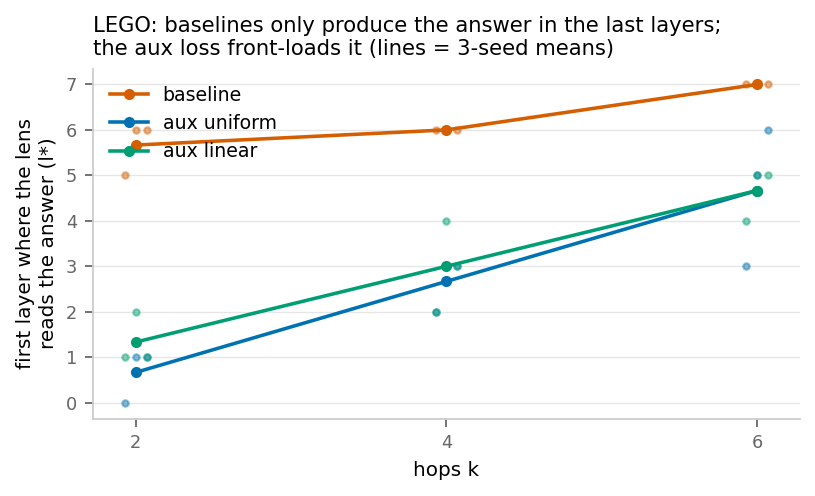
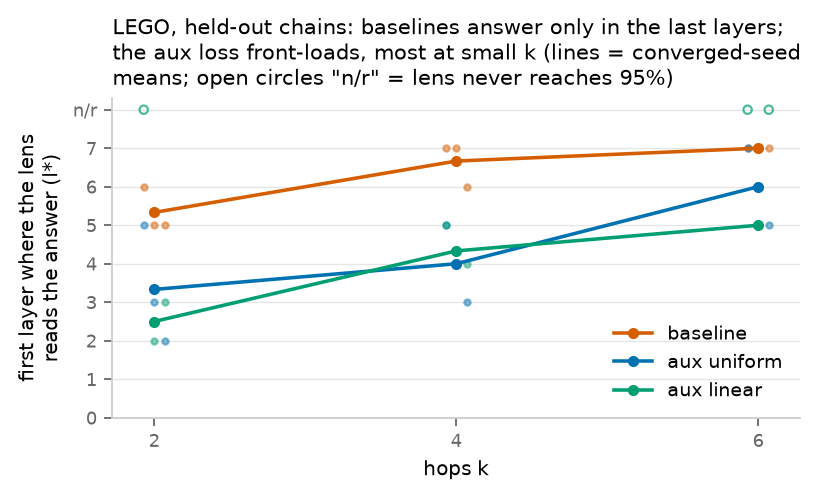
LEGO held-out restatement: RUNS repointed, figure regenerated, WRITEUP/RESULTS updated
compare_lens_aux.RUNS now points at the canonical splitku checkpoints
(enumerated data, disjoint split, k-uniform sampling). artifact_path
gains a data/artifacts/ local-mirror fallback for analyzing fresh runs
before HF upload. Held-out results: baselines were genuinely
generalizing (100% k>=2); aux has a real short-chain cost the leaky
eval hid (k=0 identity fails 3/3 uniform seeds); front-loading survives
but shrinks (uniform l*(2)=2-5 vs baseline 5-6; l*(6)=5-7 vs 7); the
all-positions variant substantially harms the task. coalescence.png now
averages converged seeds only and marks never-readable runs as n/r.

diff --git a/grok_lens/make_figures.py b/grok_lens/make_figures.py
@@ -261,28 +261,46 @@ def fig_coalescence(outdir: Path) -> None:
         print(f"  l*(k={ks}) {label}: {vals}")
 
     fig, ax = plt.subplots(figsize=(5.2, 3.2), dpi=160)
+    n_layers_max = 8
     for (label, seeds_vals), color in zip(
         data.items(), [VERM, BLUE, GREEN], strict=True
     ):
-        n_seeds = len(seeds_vals)
-        mean = [sum(v[i] for v in seeds_vals) / n_seeds for i in range(len(ks))]
+        # Mean over converged seeds only; non-converged (l* = n_layers,
+        # lens never >=0.95) would drag the line to a fake value.
+        mean = [
+            sum(vs) / len(vs)
+            if (vs := [v[i] for v in seeds_vals if v[i] < n_layers_max])
+            else float("nan")
+            for i in range(len(ks))
+        ]
         ax.plot(ks, mean, color=color, lw=1.6, marker="o", ms=4, label=label)
         for j, v in enumerate(seeds_vals):
-            ax.scatter(
-                [k + (j - 1) * 0.07 for k in ks], v, s=8, color=color, alpha=0.45
-            )
+            xs = [k + (j - 1) * 0.07 for k in ks]
+            conv = [(x, y) for x, y in zip(xs, v, strict=True) if y < n_layers_max]
+            nonc = [(x, y) for x, y in zip(xs, v, strict=True) if y >= n_layers_max]
+            if conv:
+                ax.scatter(*zip(*conv, strict=True), s=8, color=color, alpha=0.45)
+            if nonc:
+                ax.scatter(
+                    *zip(*nonc, strict=True),
+                    s=14,
+                    facecolors="none",
+                    edgecolors=color,
+                    alpha=0.7,
+                )
     style(ax)
     ax.set_xticks(ks)
-    ax.set_yticks(range(0, 8))
+    ax.set_yticks(range(0, 9), [*map(str, range(8)), "n/r"])
     ax.set_xlabel("hops k", fontsize=9)
     ax.set_ylabel("first layer where the lens\nreads the answer (l*)", fontsize=9)
     ax.set_title(
-        "LEGO: baselines only produce the answer in the last layers;\n"
-        "the aux loss front-loads it (lines = seed means)",
+        "LEGO, held-out chains: baselines answer only in the last layers;\n"
+        "the aux loss front-loads, most at small k (lines = converged-seed\n"
+        'means; open circles "n/r" = lens never reaches 95%)',
         fontsize=9.5,
         loc="left",
     )
-    ax.legend(frameon=False, fontsize=8.5, loc="upper left")
+    ax.legend(frameon=False, fontsize=8.5, loc="lower right")
     fig.tight_layout()
     fig.savefig(outdir / "coalescence.png", bbox_inches="tight")
     plt.close(fig)

diff --git a/lego/compare_lens_aux.py b/lego/compare_lens_aux.py
@@ -34,16 +34,19 @@ from lego.model import AnyModel
 from lego.tokenizer import answer_position, encode
 from lego.training import load_model
 
+# The canonical runs: enumerated data, disjoint per-k-stratified train/test
+# split, k-uniform sampling (see RESULTS "Review re-runs II"). Probes below
+# run on the reconstructed held-out split only.
 RUNS: list[tuple[str, str, str]] = [
-    ("baseline s42", "S3-std-8L-lensaux-base-s42", "step_39000.pt"),
-    ("baseline s43", "S3-std-8L-lensaux-base-s43-stream", "step_19531.pt"),
-    ("baseline s44", "S3-std-8L-lensaux-base-s44-stream", "step_19531.pt"),
-    ("aux uniform s42", "S3-std-8L-lensaux0.3-uniform-s42", "step_39000.pt"),
-    ("aux uniform s43", "S3-std-8L-lensaux0.3-uniform-s43-stream", "step_19531.pt"),
-    ("aux uniform s44", "S3-std-8L-lensaux0.3-uniform-s44-stream", "step_19531.pt"),
-    ("aux linear s42", "S3-std-8L-lensaux0.3-linear-s42", "step_39000.pt"),
-    ("aux linear s43", "S3-std-8L-lensaux0.3-linear-s43-stream", "step_19531.pt"),
-    ("aux linear s44", "S3-std-8L-lensaux0.3-linear-s44-stream", "step_19531.pt"),
+    ("baseline s42", "S3-std-8L-splitku-base-s42", "step_20960.pt"),
+    ("baseline s43", "S3-std-8L-splitku-base-s43", "step_20960.pt"),
+    ("baseline s44", "S3-std-8L-splitku-base-s44", "step_20960.pt"),
+    ("aux uniform s42", "S3-std-8L-splitku-lensaux0.3-uniform-s42", "step_20960.pt"),
+    ("aux uniform s43", "S3-std-8L-splitku-lensaux0.3-uniform-s43", "step_20960.pt"),
+    ("aux uniform s44", "S3-std-8L-splitku-lensaux0.3-uniform-s44", "step_20960.pt"),
+    ("aux linear s42", "S3-std-8L-splitku-lensaux0.3-linear-s42", "step_20960.pt"),
+    ("aux linear s43", "S3-std-8L-splitku-lensaux0.3-linear-s43", "step_20960.pt"),
+    ("aux linear s44", "S3-std-8L-splitku-lensaux0.3-linear-s44", "step_20960.pt"),
 ]
 N_ELEMENTS = 6
 

diff --git a/common/checkpoint.py b/common/checkpoint.py
@@ -45,11 +45,17 @@ def save_model_checkpoint(
 
 
 def artifact_path(relpath: str) -> Path:
-    """Download an artifact from the public HF dataset, returning its path.
+    """Resolve an artifact, preferring a local mirror over the HF dataset.
 
     ``relpath`` is e.g. ``grok_lens/<run_name>/final.pt`` or
-    ``lego/<run_name>/step_39000.pt``. Files are cached by huggingface_hub.
+    ``lego/<run_name>/step_39000.pt``. If ``data/artifacts/<relpath>``
+    exists (the escape hatch for analyzing fresh local runs before they
+    are uploaded), it is used directly; otherwise the file is downloaded
+    from the public HF dataset and cached by huggingface_hub.
     """
+    local = Path("data/artifacts") / relpath
+    if local.exists():
+        return local
     return Path(
         hf_hub_download(repo_id=HF_DATASET, repo_type="dataset", filename=relpath)
     )

diff --git a/WRITEUP.md b/WRITEUP.md
@@ -105,9 +105,9 @@ Everything above could have been a fact about one circuit. On a − b (mod 113) 
 
 ![LEGO coalescence layer vs hop count for the three arms](figures/coalescence.png)
 
-*Figure 5 — front-loading on the multi-hop task. First layer at which the lens reads the final answer, vs hop count (lines = 3-seed means, dots = seeds): baselines answer only in the last layers regardless of difficulty; aux models answer as early as each seed's circuit allows.*
+*Figure 5 — front-loading on the multi-hop task, measured on held-out chains. First layer at which the lens reads the final answer, vs hop count (lines = means over converged seeds; open circles = runs whose lens never reaches 95% at that k): baselines answer only in the last layers regardless of difficulty; aux models answer earlier, most strongly at small k.*
 
-**A second task, briefly** *(3 seeds per arm; the two newer seeds use streaming unique data, removing an earlier repeated-epoch deviation)*: on k-hop non-abelian group composition (S₃ "LEGO" chains, 8-layer models), the aux loss leaves capability untouched (100% at all k ≤ 6 in all 9 runs, equal convergence) and *front-loads* the computation rather than hiding it. Baselines only produce the answer in the final layers regardless of difficulty (coalescence layer ℓ* = 5–7 for k = 2–6, all seeds); aux models produce it 1–5 layers earlier at every seed and every k (k = 2 readable by layer 0–2; k = 6 by layer 3–6 depending on seed, vs always layer 7 for baselines), with intermediate states readable earlier at unsupervised positions, and below ℓ* the lens shows a calibrated anytime estimate where the baseline lens is confidently wrong. The one residue of the dark-space intuition: mid-chain prefix states are only ~half-decodable, hinting at hierarchical rather than fully sequential composition. This task corroborates the relocation/front-loading story only; it is not a grokking task and says nothing about stability.
+**A third task, briefly** *(k-hop non-abelian group composition: S₃ "LEGO" chains, 8-layer models; 3 seeds per arm)*. Review of the original runs found their test sets were i.i.d. samples from a space the training stream effectively covered — "test accuracy" partly measured seen chains — so all arms were re-run on a corrected pipeline: the full enumeration of all 335,922 chains (k ≤ 6), a disjoint per-k-stratified held-out split, and per-k-uniform batch sampling. (Two incidental findings from the correction: the short-chain curriculum is *required* — sampling chains proportionally to the enumeration, which is 83% k = 6, leaves every run at chance indefinitely — and the honest numbers below are uniformly less flattering than the leaky ones, in the directions you'd predict.) On genuinely held-out chains: baselines generalize fully (100% at k ≥ 2, 3/3 seeds; the k ≤ 1 strata have 1 and 7 test examples and show occasional single-example misses). The aux loss preserves capability at k ≥ 3 (~100%, uniform weighting) but now shows a **real cost on short chains** the leaky eval had hidden — the single held-out k = 0 identity chain fails in 3/3 uniform seeds, and k = 1 drops to 0.43–0.86 (vs baselines' 0.71–1.0); the linear weighting fully converges in only 2/3 seeds within the matched budget. **Front-loading survives on held-out data but is smaller than originally reported**: uniform-aux ℓ*(2) = 2–5 vs baseline 5–6, ℓ*(4) = 3–5 vs 6–7, ℓ*(6) = 5–7 vs 7 (one seed shows no k = 6 gain) — part of the earlier magnitude (k = 2 "readable at layer 0–1") was memorization visible through the lens. The anytime-estimate contrast is real on held-out chains: below ℓ* the aux lens is near-uniform over answers (entropy ≈ ln 6, falling as the answer coalesces) where the baseline lens is confidently wrong (entropy 0.1–0.5 with accuracy 0.0). A full-sequence variant — lens supervision against the *next token at every position* rather than the answer — substantially harms the task at matched budget (train accuracy 0.66–0.72, held-out ≤ 0.33 at k = 6, 2 seeds), consistent with the specificity finding: answer-shaped supervision is the benign form. This task corroborates the relocation/front-loading story only; it is not a grokking task and says nothing about stability.
 
 ## Discussion
 
@@ -127,7 +127,7 @@ Everything above could have been a fact about one circuit. On a − b (mod 113) 
 
 ## Limitations
 
-The instability itself is a property of *LN architectures* under the canonical recipe — the no-LN control makes this a scope condition, not a footnote: with Nanda's LN-free architecture the baseline is already near-absorbing and the aux loss's stabilization value largely disappears (its circuit-shaping and front-loading effects remain). The stability story now spans two modular-arithmetic tasks but remains within one task *family* (the LEGO task corroborates only relocation/front-loading). The redundancy↔stability link is exception-free only within AdamW; Muon-L3 breaks it in both directions (the fixed-optimizer continuations are the rebuttal, but Muon's own dynamics remain unexplained). The weighting-schedule contrast is marginal (8/10 seeds, p = 0.055). The front-loading *magnitude* on LEGO is seed-varying (ℓ*(6) from 3 to 6), and subtraction-aux pruning is only *largely* arrested (concentration drifts to 0.56–0.70). "Redundant" is established at the embedding-frequency level and means *distributed and knockout-robust* — the algorithm on those frequencies is not reverse-engineered, so backup-subcircuits vs one-widened-algorithm is open. A residual puzzle we flag rather than resolve: if the aux gradient is a continuous brake on pruning, its effect should scale with λ, but concentration plateaus at the same level from λ = 0.01 to 3.0 — the maintenance account is descriptively right (the continuations prove it) while its gradient-level dynamics are not understood. Tiny models, grokking regime; transfer to realistic training is unknown.
+The instability itself is a property of *LN architectures* under the canonical recipe — the no-LN control makes this a scope condition, not a footnote: with Nanda's LN-free architecture the baseline is already near-absorbing and the aux loss's stabilization value largely disappears (its circuit-shaping and front-loading effects remain). The stability story now spans two modular-arithmetic tasks but remains within one task *family* (the LEGO task corroborates only relocation/front-loading). The redundancy↔stability link is exception-free only within AdamW; Muon-L3 breaks it in both directions (the fixed-optimizer continuations are the rebuttal, but Muon's own dynamics remain unexplained). The weighting-schedule contrast is marginal (8/10 seeds, p = 0.055). The front-loading *magnitude* on LEGO is seed-varying and smaller on held-out chains than the original (leaky) evaluation suggested (uniform ℓ*(6) = 5–7, one seed with no gain), the aux loss costs held-out accuracy on the smallest LEGO strata, and subtraction-aux pruning is only *largely* arrested (concentration drifts to 0.56–0.70). "Redundant" is established at the embedding-frequency level and means *distributed and knockout-robust* — the algorithm on those frequencies is not reverse-engineered, so backup-subcircuits vs one-widened-algorithm is open. A residual puzzle we flag rather than resolve: if the aux gradient is a continuous brake on pruning, its effect should scale with λ, but concentration plateaus at the same level from λ = 0.01 to 3.0 — the maintenance account is descriptively right (the continuations prove it) while its gradient-level dynamics are not understood. Tiny models, grokking regime; transfer to realistic training is unknown.
 
 ## References
 

diff --git a/RESULTS.md b/RESULTS.md
@@ -1014,3 +1014,62 @@ S3-credentials issue in the sync trap after training completed; its
 checkpoint was recovered manually and verified. A tmux-launched
 duplicate of the same run (killed mid-flight at 43k when the queue
 moved to SkyPilot) is renamed `*-aborted-tmux` in wandb.
+
+### 2026-07-27 — Review re-runs II: LEGO on a corrected split; honest numbers shrink but don't kill the story
+
+Reviewer-caught validity bug: the original LEGO runs sampled i.i.d.
+from only 335,922 possible chains, so test sets overlapped the training
+stream's coverage — "test accuracy" partly measured seen chains. The
+pipeline was rebuilt (this repo, commits f0b7ab8→d09300f): full
+enumeration, disjoint per-k-stratified split (test_frac 0.2, seed 42),
+map-style dataset, streaming machinery deleted. Two failed intermediate
+states are preserved for provenance: the first 11 re-runs
+(`*-split-*-kprop-failed` in wandb) sampled chains proportionally to
+the enumeration (83% k=6) and **never lifted off chance** (train acc
+1/6, loss = ln 6, 21k steps) — the short-chain curriculum is required
+for learnability, so `make_k_uniform_sampler` now restores the old
+per-k-uniform training distribution over the train split only.
+
+Canonical runs (`S3-std-8L-splitku-*`, jobs 147–157, 20,960 steps =
+40 epochs × 524, batch 512, lr 3e-4 cosine, seeds 42/43/44):
+
+```
+uv run python -m lego.train --wandb-run-name <run> --checkpoint-dir <dir> \
+  [--lens-aux --lens-aux-weight 0.3 [--lens-aux-weighting linear] \
+   [--lens-aux-mode all-positions]] --seed <s>
+```
+
+**Held-out accuracy** (per-k test strata: 1/7/43/259/1.5k/9.3k/56k examples):
+
+| arm | train | k0 | k1 | k2 | k3–k6 |
+|---|---|---|---|---|---|
+| baseline | 1.000 | 1/0/1 | 0.71–1.0 | 1.00 | 1.00 |
+| aux uniform | 1.000 | **0/0/0** | 0.43–0.86 | 0.86–0.98 | ~1.00 |
+| aux linear | 0.90–1.00 | 0/1/0 | 0.43 | 0.81–0.98 | s43 1.0; s42/s44 partial |
+| aux all-positions | 0.66–0.72 | 0 | 0.14 | 0.09–0.37 | 0.12–0.65 |
+
+Baselines were genuinely generalizing all along (100% at k≥2). The aux
+loss has a real short-chain cost the leaky eval hid (the held-out k=0
+identity chain fails 3/3 uniform seeds; k1 degraded). The
+reviewer-requested **all-positions variant** (next-token lens CE at
+every position) substantially harms the task at matched budget —
+answer-shaped supervision is the benign form, consistent with the
+specificity controls.
+
+**Held-out coalescence ℓ*(k)** (compare_lens_aux on the reconstructed
+split; None = final-layer lens <0.95):
+
+| arm | ℓ*(2) | ℓ*(4) | ℓ*(6) |
+|---|---|---|---|
+| baseline | 6/5/5 | 7/7/6 | 7/7/7 |
+| aux uniform | 5/3/2 | 5/4/3 | 7/6/5 |
+| aux linear | None/2/3 | 5/4/4 | None/5/None |
+
+Front-loading survives held-out evaluation but is smaller than the
+leaky numbers claimed (k=2 "layer 0–1" was memorization read through
+the lens). The anytime-estimate contrast is confirmed on held-out
+chains: pre-ℓ* aux lens entropy ≈ ln 6 (calibrated uncertainty),
+baseline entropy 0.1–0.5 at accuracy 0.0 (confidently wrong).
+coalescence.png regenerated from these checkpoints (means over
+converged seeds; non-converged marked "n/r"); WRITEUP LEGO section
+restated on held-out numbers.
